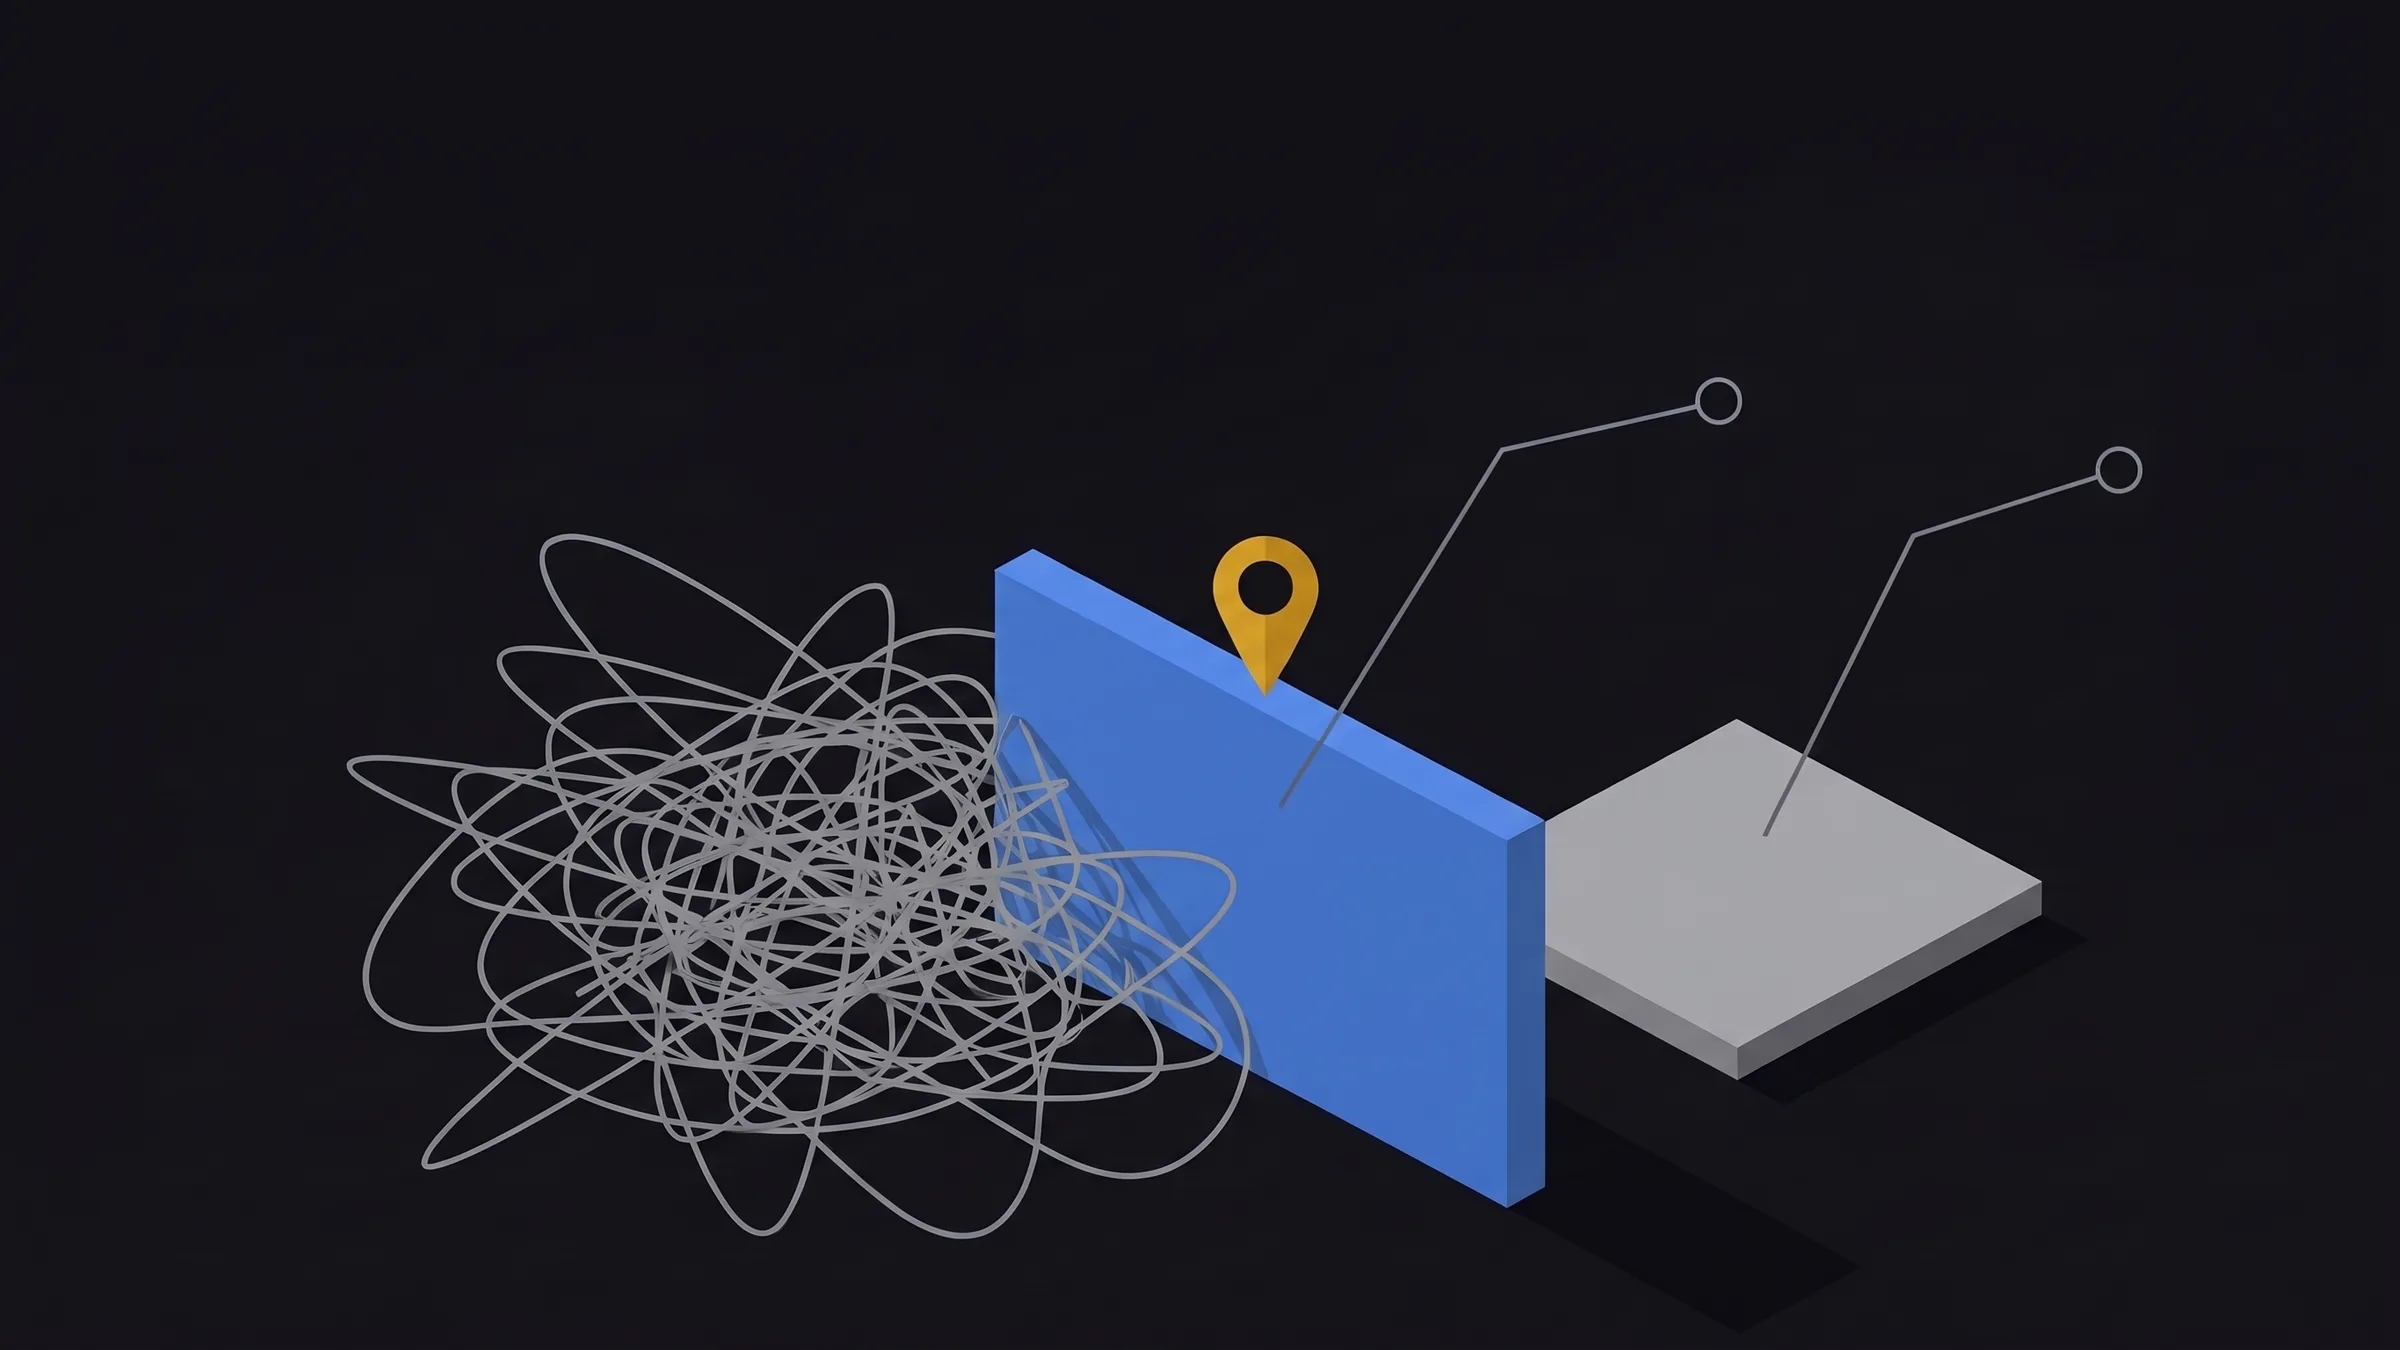
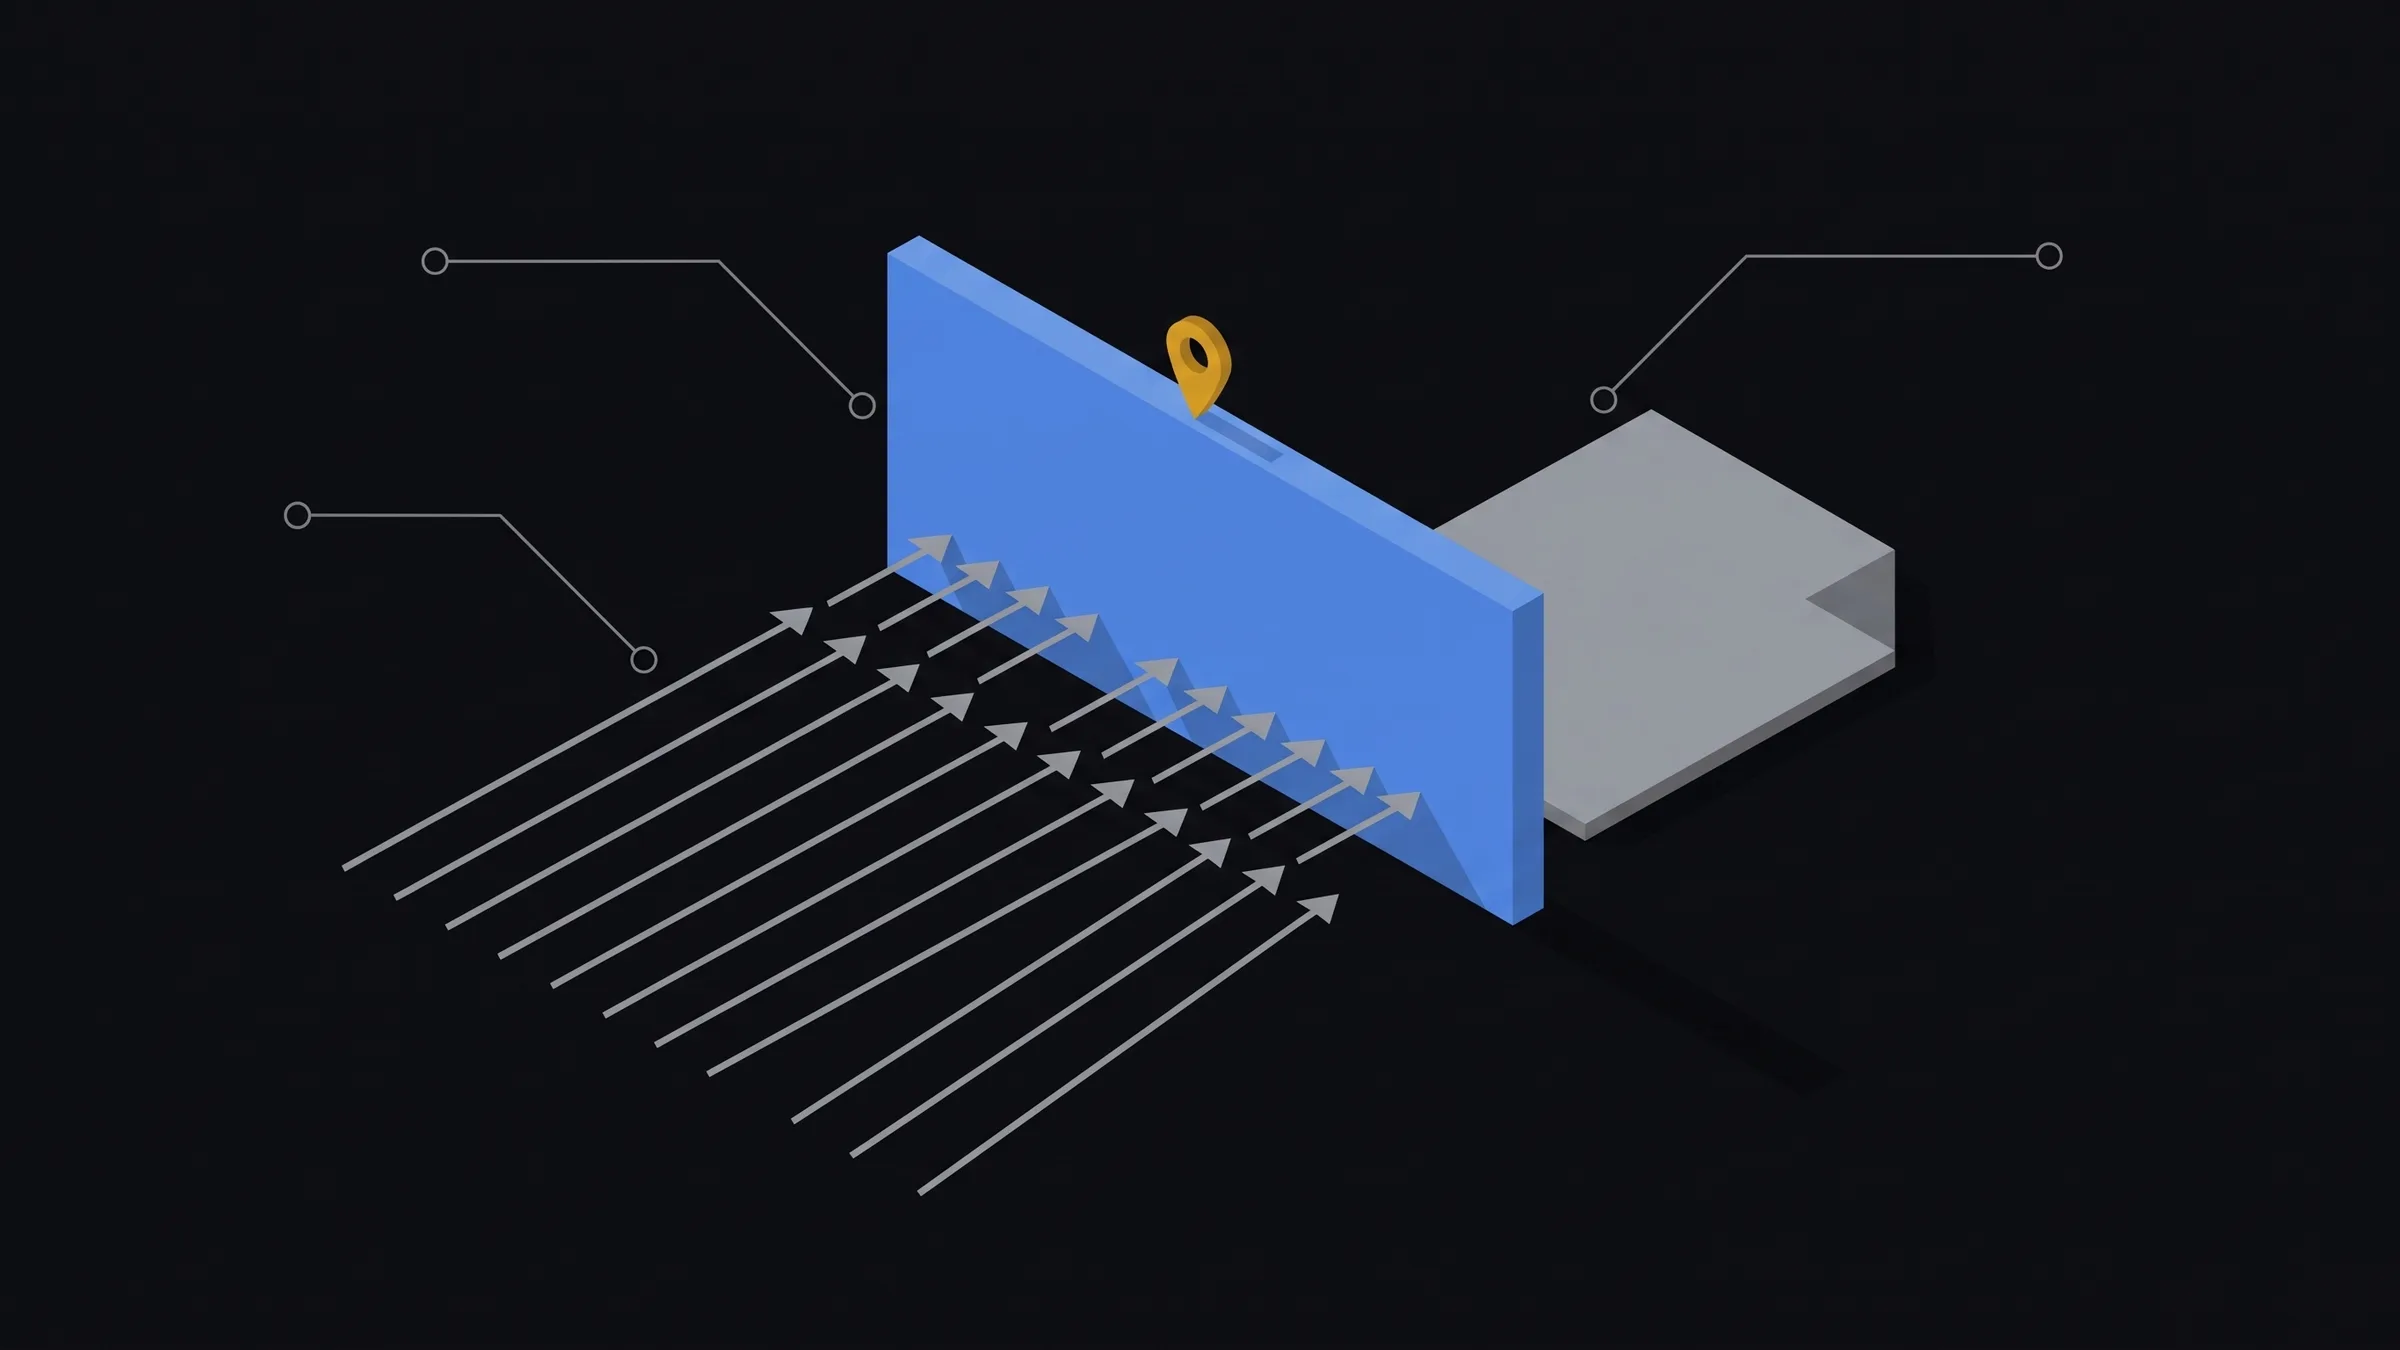
Replace negative SEO hero with an ordered arrow-fan composition
Claude-Session: https://claude.ai/code/session_01DZFRfseoEgxVMXWyb75zkT

diff --git a/docs/design/07-render-log.md b/docs/design/07-render-log.md
@@ -44,3 +44,4 @@
 | H24 | 3 | fix6/H24 | hero-google-update-impact.webp | see file | pass | Fable regen, dark ground enforced |
 | H25 | 3 | fix6/H25 | hero-ai-search-traffic.webp | see file | pass | Fable regen, three arrows to one tile |
 | H26 | 3 | fix6/H26 | hero-negative-seo-case-study.webp | see file | pass | Fable regen, slab barrier, no shield |
+| H26 | 4 | fix6/H26a | hero-negative-seo-case-study.webp | see file | pass | Sunny: v3 messy and rushed; replaced tangle with a tidy fan of parallel arrows stopped by the slab |
